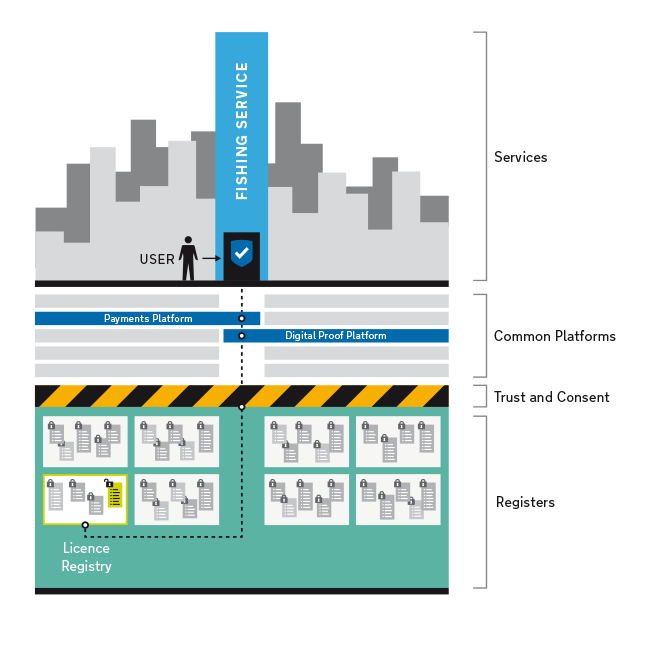
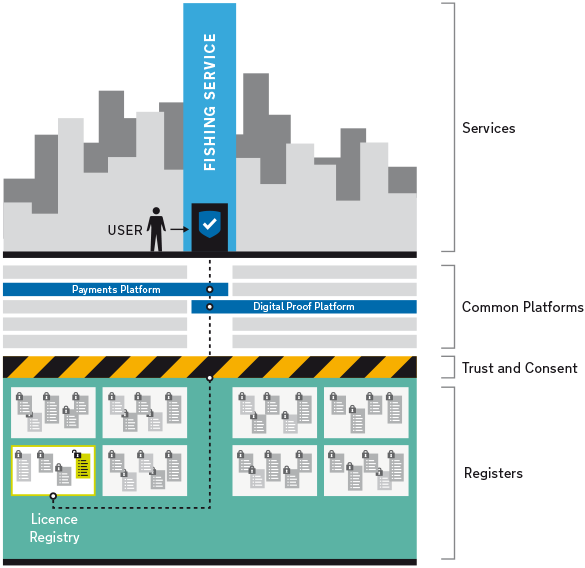
updated greenpaper design

diff --git a/www/static/css/greenpaper.css b/www/static/css/greenpaper.css
@@ -370,6 +370,7 @@ span.pink {
 .infrastructure {
   margin-top: 50px;
   color: #FFFFFF;
+/*  padding: 30px;*/
 }
 
 .infrastructure img {
@@ -385,24 +386,55 @@ span.pink {
   line-height: 40px;
 }
 
-.infrastructure-summary {
-  margin-top: 2.3rem;
+#infrastructure-summary {
+  margin-top: 60px;
   text-align: center;
+  padding: 30px;
+  margin-bottom: 30px;
 }
 
-.infrastructure-summary img {
+#infrastructure-summary h4 {
+  font-size: 27px;
+}
+
+#infrastructure-summary p {
+  font-size: 19px;
+  color: gray;
+}
+
+#infrastructure-summary img {
     width: 100px;
 }
 
 #fishing-service {
   background-color: #ECEDED;
-  padding: 30px;
+  padding-left: 30px;
+  padding-right: 30px;
+  padding-top: 30px;
+  padding-bottom: 60px;
 }
 
-#fishing-service-image {
-  height: 100%;
-  background: url(/static/images/greenpaper/fishing-service.png) no-repeat;
-  background-size: contain;
+#fishing-service img {
+  padding: 0;
+}
+
+#fishing-service h2 {
+ font-size: 36px;
+ line-height: 40px;
+ margin-top: 15px!important;
+ margin-bottom: 30px;
+}
+
+.fishing-service-text {
+  padding: 0;
+}
+
+.fishing-service-text p {
+  font-size: 19px;
+}
+
+.fishing-service-diagram {
+  padding: 0;
 }
 
 .footer {
@@ -431,6 +463,12 @@ span.pink {
  .demo-column{
   height: 300px;
 } 
+
+.infrastructure h2 {
+  text-align: left;
+  padding-left: 15px;
+  padding-right: 15px;
+}
 
 }
 

diff --git a/www/templates/greenpaper/concept.html b/www/templates/greenpaper/concept.html
@@ -66,12 +66,20 @@
     </div>
 
     <div id="fishing-service" class="row">
-      <div class="small-12 large-4 columns">
+      <div class="small-12 large-4 columns fishing-service-text">
          <h2>A single service view of fishing</h2>
         <p>Sed ut perspiciatis unde omnisiste natus error sit voluptatem accusantium doloremque laudantium, totam rem aperiam, eaque ipsa</p>
       </div>
-      <div id="fishing-service-image" class="small-12 large-6 columns">
+      <div class="small-12 large-8 columns fishing-service-diagram">
+              <img src="{{url_for('static', filename='images/greenpaper/fishing-service.png')}}" />
       </div>
+    </div>
+    <div class="row">
+    <div class="large-12 columns">
+        <div class="footer">
+          <p class="footer-text">This is a GDS prototype</p>
+        </div>
+    </div>
     </div>
 
 
